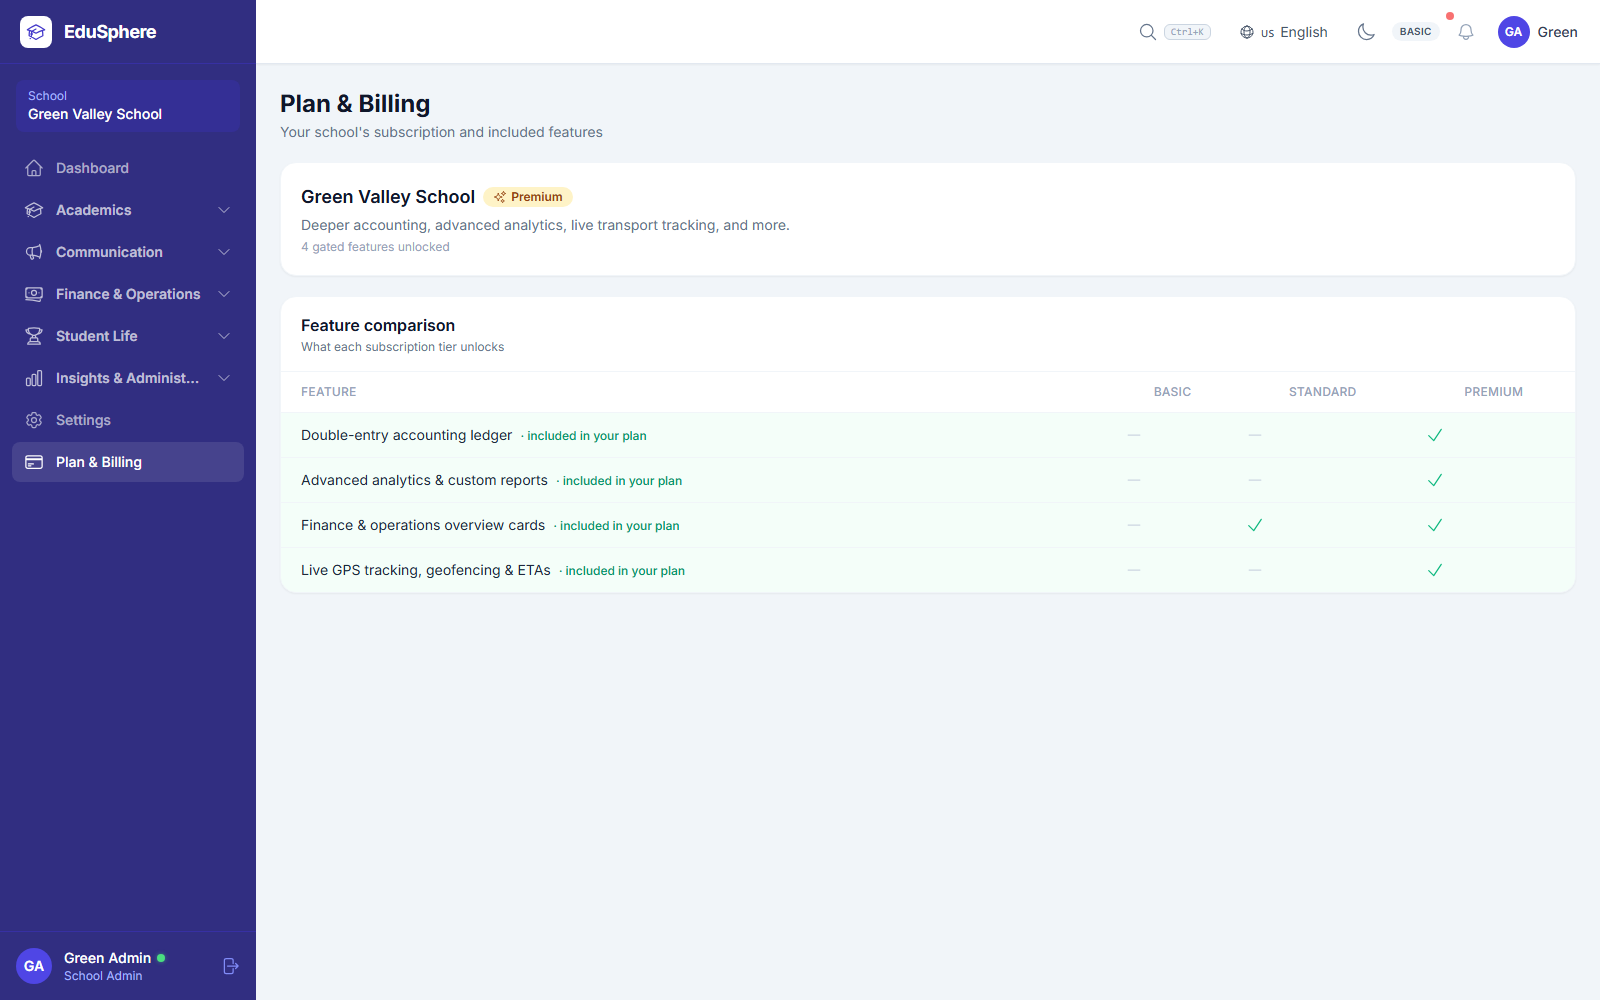
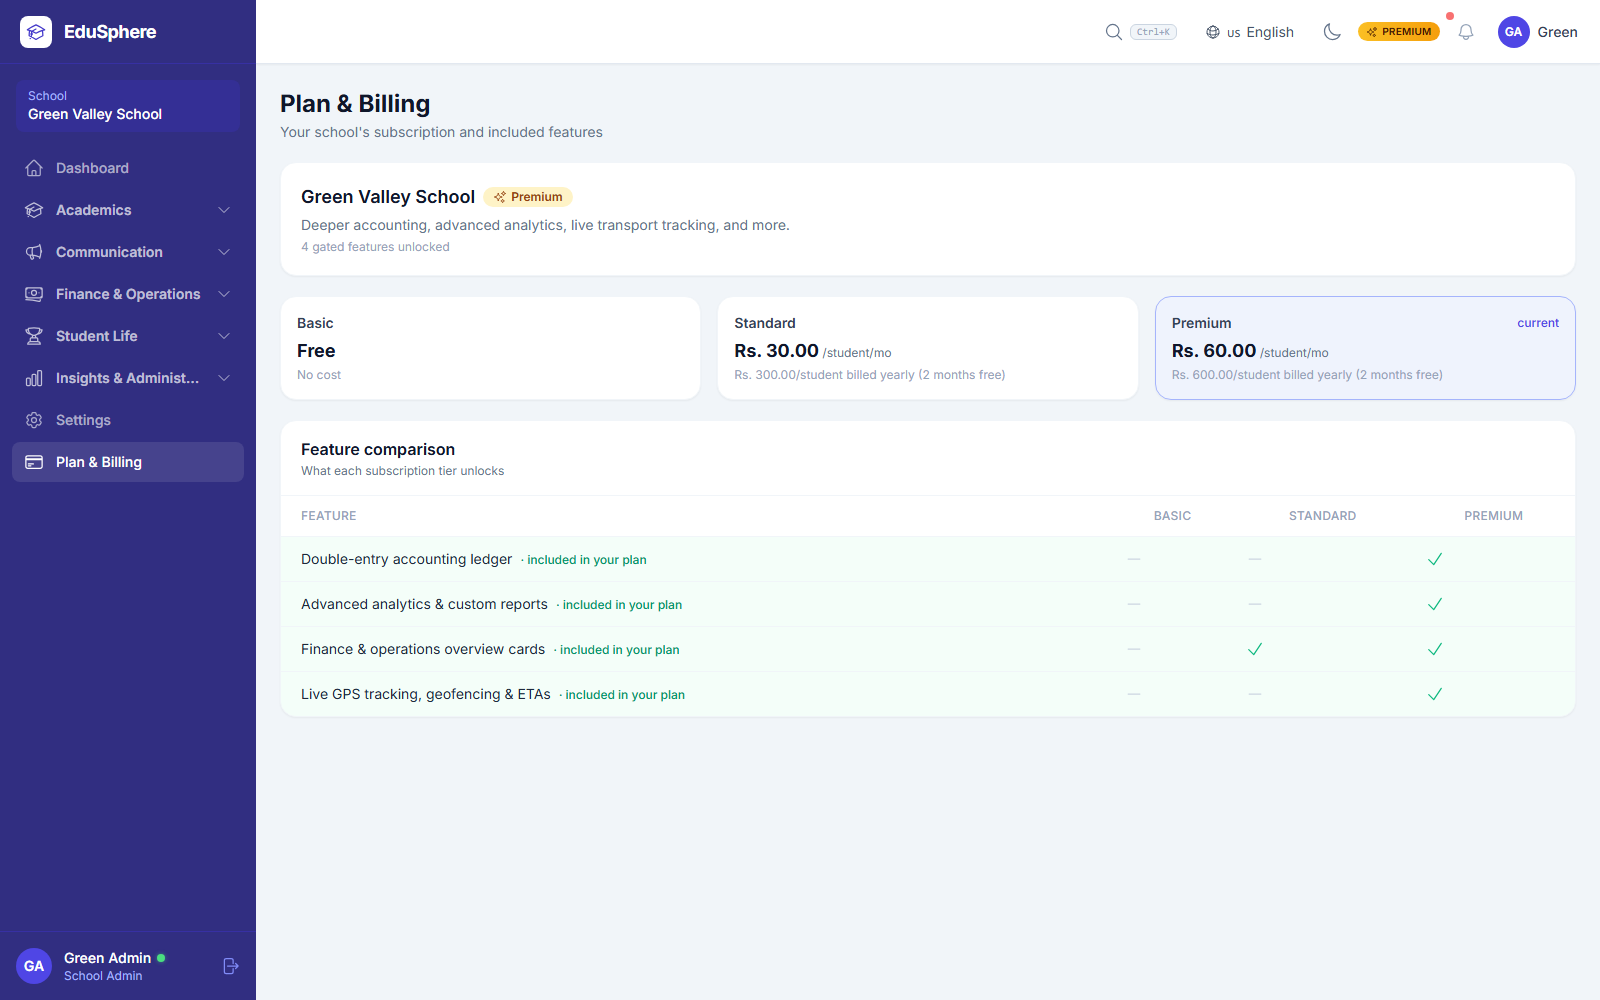
Show per-tier pricing on the Plan & Billing page
TIER_PRICING registry (NPR per-student monthly/yearly rates) exposed via
GET /auth/plan/; the page renders three pricing cards with the current
tier highlighted and prices the upgrade CTA directly.

🤖 Generated with Codebuff

diff --git a/frontend/web/src/pages/admin/PlanBillingPage.tsx b/frontend/web/src/pages/admin/PlanBillingPage.tsx
@@ -13,6 +13,7 @@ import { api } from "../../api/client";
 import { Button, SkeletonCard, SkeletonStatCard } from "../../components/common";
 import { useAuthStore } from "../../store/authStore";
 import { useTitle } from "../../hooks";
+import { npr } from "../../utils";
 import toast from "react-hot-toast";
 
 interface MatrixRow {
@@ -23,6 +24,12 @@ interface MatrixRow {
   premium: boolean;
 }
 
+interface TierPricing {
+  currency: string;
+  per_student_month: number;
+  per_student_year: number;
+}
+
 interface PlanOverview {
   plan: "basic" | "standard" | "premium";
   is_premium: boolean;
@@ -30,6 +37,7 @@ interface PlanOverview {
   features: string[];
   matrix: MatrixRow[];
   can_manage: boolean;
+  pricing: Record<string, TierPricing>;
 }
 
 const TIER_ORDER: Record<string, number> = { basic: 0, standard: 1, premium: 2 };
@@ -121,6 +129,11 @@ export default function PlanBillingPage() {
   const upgradeTargets = (["basic", "standard", "premium"] as const).filter(
     (t) => TIER_ORDER[t] > TIER_ORDER[plan.plan],
   );
+  const tierPrice = (t: string) => {
+    const p = plan.pricing?.[t];
+    if (!p) return "";
+    return p.per_student_month === 0 ? "Free" : `${npr(p.per_student_month)}/student/mo`;
+  };
 
   return (
     <div className="space-y-5">
@@ -150,7 +163,7 @@ export default function PlanBillingPage() {
             <p className="text-xs text-slate-400 mt-1">
               {plan.features.length} gated feature{plan.features.length === 1 ? "" : "s"} unlocked
             </p>
-          </div>
+          </div>{" "}
           {plan.can_manage && upgradeTargets.length > 0 && (
             <div className="flex items-center gap-2">
               {upgradeTargets.map((t) => (
@@ -163,15 +176,63 @@ export default function PlanBillingPage() {
                   {changing ? (
                     <ArrowPathIcon className="h-4 w-4 animate-spin" aria-hidden />
                   ) : t === "premium" ? (
-                    <>💎 Upgrade to {TIER_META[t].label}</>
+                    <>
+                      💎 Upgrade to {TIER_META[t].label} · {tierPrice(t)}
+                    </>
                   ) : (
-                    <>Switch to {TIER_META[t].label}</>
+                    <>
+                      Switch to {TIER_META[t].label} · {tierPrice(t)}
+                    </>
                   )}
                 </Button>
               ))}
             </div>
           )}
         </div>
+      </div>
+
+      {/* Pricing row */}
+      <div className="grid grid-cols-1 sm:grid-cols-3 gap-4">
+        {(["basic", "standard", "premium"] as const).map((t) => {
+          const p = plan.pricing?.[t];
+          const current = t === plan.plan;
+          return (
+            <div
+              key={t}
+              className={`rounded-2xl border p-4 shadow-sm ${
+                current
+                  ? "border-indigo-300 bg-indigo-50/60 dark:border-indigo-700 dark:bg-indigo-900/20"
+                  : "bg-white border-slate-100 dark:bg-slate-800 dark:border-slate-700 dark:shadow-none"
+              }`}
+            >
+              <div className="flex items-center justify-between">
+                <span className="text-sm font-semibold text-slate-700 dark:text-slate-200">
+                  {TIER_META[t].label}
+                </span>
+                {current && (
+                  <span className="text-xs font-medium text-indigo-600 dark:text-indigo-300">
+                    current
+                  </span>
+                )}
+              </div>
+              <p className="mt-1 text-lg font-bold text-slate-900 dark:text-white">
+                {p && p.per_student_month > 0 ? (
+                  <>
+                    {npr(p.per_student_month)}
+                    <span className="text-xs font-normal text-slate-500"> /student/mo</span>
+                  </>
+                ) : (
+                  "Free"
+                )}
+              </p>
+              <p className="text-xs text-slate-400 mt-0.5">
+                {p && p.per_student_month > 0
+                  ? `${npr(p.per_student_year)}/student billed yearly (2 months free)`
+                  : "No cost"}
+              </p>
+            </div>
+          );
+        })}
       </div>
 
       {/* Feature matrix */}

diff --git a/frontend/web/src/pages/admin/PlanBillingPage.test.tsx b/frontend/web/src/pages/admin/PlanBillingPage.test.tsx
@@ -25,6 +25,11 @@ jest.mock("../../api/client", () => ({
           school_name: "Bright Future Academy",
           features: ["finance_overview"],
           can_manage: true,
+          pricing: {
+            basic: { currency: "NPR", per_student_month: 0, per_student_year: 0 },
+            standard: { currency: "NPR", per_student_month: 30, per_student_year: 300 },
+            premium: { currency: "NPR", per_student_month: 60, per_student_year: 600 },
+          },
           matrix: [
             {
               key: "accounting_ledger",
@@ -126,6 +131,21 @@ describe("PlanBillingPage", () => {
     expect(await screen.findByRole("button", { name: /upgrade to premium/i })).toBeInTheDocument();
   });
 
+  it("shows per-tier pricing cards with the current tier highlighted", async () => {
+    renderPage();
+    expect(await screen.findByText("Rs. 30.00")).toBeInTheDocument();
+    expect(screen.getByText("Rs. 60.00")).toBeInTheDocument();
+    expect(screen.getAllByText("Free").length).toBeGreaterThanOrEqual(1);
+    expect(screen.getAllByText("/student/mo").length).toBeGreaterThanOrEqual(2);
+    expect(screen.getByText("current")).toBeInTheDocument();
+  });
+
+  it("includes the price on the upgrade CTA", async () => {
+    renderPage();
+    const btn = await screen.findByRole("button", { name: /upgrade to premium/i });
+    expect(btn.textContent).toContain("Rs. 60.00");
+  });
+
   it("fires the change-tier call and refreshes plan data on upgrade", async () => {
     const user = userEvent.setup();
     renderPage();
@@ -157,6 +177,11 @@ describe("PlanBillingPage", () => {
                 "live_transport_tracking",
               ],
               can_manage: true,
+              pricing: {
+                basic: { currency: "NPR", per_student_month: 0, per_student_year: 0 },
+                standard: { currency: "NPR", per_student_month: 30, per_student_year: 300 },
+                premium: { currency: "NPR", per_student_month: 60, per_student_year: 600 },
+              },
               matrix: [
                 {
                   key: "accounting_ledger",
@@ -194,6 +219,11 @@ describe("PlanBillingPage", () => {
               school_name: "Bright Future Academy",
               features: ["finance_overview"],
               can_manage: false,
+              pricing: {
+                basic: { currency: "NPR", per_student_month: 0, per_student_year: 0 },
+                standard: { currency: "NPR", per_student_month: 30, per_student_year: 300 },
+                premium: { currency: "NPR", per_student_month: 60, per_student_year: 600 },
+              },
               matrix: [
                 {
                   key: "finance_overview",

diff --git a/backend/tests/test_plan_gating.py b/backend/tests/test_plan_gating.py
@@ -199,6 +199,25 @@ def test_plan_overview_returns_matrix_and_tier():
 
 
 @pytest.mark.django_db
+def test_plan_overview_includes_pricing_for_all_tiers():
+    """The pricing block (per-student rates per tier) advertises upgrades."""
+    from core.plan_features import TIER_PRICING
+
+    user = UserFactory(role="teacher")
+    res = client_as(user).get("/api/v1/auth/plan/")
+
+    assert res.status_code == status.HTTP_200_OK
+    pricing = res.json()["pricing"]
+    assert set(pricing) == {"basic", "standard", "premium"}
+    assert pricing == TIER_PRICING
+    assert pricing["basic"]["per_student_month"] == 0
+    assert pricing["premium"]["per_student_month"] > pricing["standard"]["per_student_month"]
+    # annual = 10x monthly (two months free)
+    for tier in ("standard", "premium"):
+        assert pricing[tier]["per_student_year"] == pricing[tier]["per_student_month"] * 10
+
+
+@pytest.mark.django_db
 def test_plan_overview_admin_sees_manage_flag():
     school = SchoolFactory(subscription_tier="premium")
     user = AdminUserFactory(school=school)

diff --git a/backend/core/plan_features.py b/backend/core/plan_features.py
@@ -69,6 +69,14 @@ ENDPOINT_FEATURE_MAP: dict[str, str] = {
 STANDARD_FEATURES: frozenset[str] = frozenset({"finance_overview"})
 PREMIUM_FEATURE_KEYS: frozenset[str] = frozenset(feature.key for feature in PREMIUM_FEATURES)
 
+# Display pricing (NPR, per student) surfaced on the Plan & Billing page.
+# Annual price = 10× monthly (two months free). Basic is free.
+TIER_PRICING: dict[str, dict] = {
+    "basic": {"currency": "NPR", "per_student_month": 0, "per_student_year": 0},
+    "standard": {"currency": "NPR", "per_student_month": 30, "per_student_year": 300},
+    "premium": {"currency": "NPR", "per_student_month": 60, "per_student_year": 600},
+}
+
 
 def school_has_feature(school, feature_key: str) -> bool:
     """Whether ``school``'s subscription tier unlocks ``feature_key``.

diff --git a/backend/services/auth/views.py b/backend/services/auth/views.py
@@ -871,7 +871,7 @@ class PlanView(APIView):
     permission_classes = [IsAuthenticated]
 
     def get(self, request):
-        from core.plan_features import PREMIUM_FEATURES, STANDARD_FEATURES, plan_features_for_tier
+        from core.plan_features import PREMIUM_FEATURES, STANDARD_FEATURES, TIER_PRICING, plan_features_for_tier
 
         school = getattr(request.user, "school", None)
         tier = getattr(school, "subscription_tier", "basic") if school else "basic"
@@ -895,6 +895,7 @@ class PlanView(APIView):
                 "features": plan_features_for_tier(tier)["features"],
                 "matrix": matrix,
                 "can_manage": request.user.role in ("school_admin", "super_admin"),
+                "pricing": TIER_PRICING,
             }
         )
 

diff --git a/CHANGELOG.md b/CHANGELOG.md
@@ -8,6 +8,12 @@ project uses [Semantic Versioning](https://semver.org/).
 
 ### Added
 
+- **Per-tier pricing on the Plan & Billing page** — `TIER_PRICING` registry
+  (NPR per-student monthly + yearly rates, basic free, annual = 10× monthly)
+  exposed through `GET /auth/plan/`; the page renders three pricing cards with
+  the current tier highlighted and prices the upgrade/downgrade CTA directly
+  ("Upgrade to Premium · Rs. 60.00/student/mo").
+
 - **In-app Plan & Billing page** (`/admin/plan-billing`) — current tier card
   with plan badges, the tiered feature matrix (per-tier availability from the
   registry via `GET /auth/plan/`), and an upgrade/downgrade CTA for school
